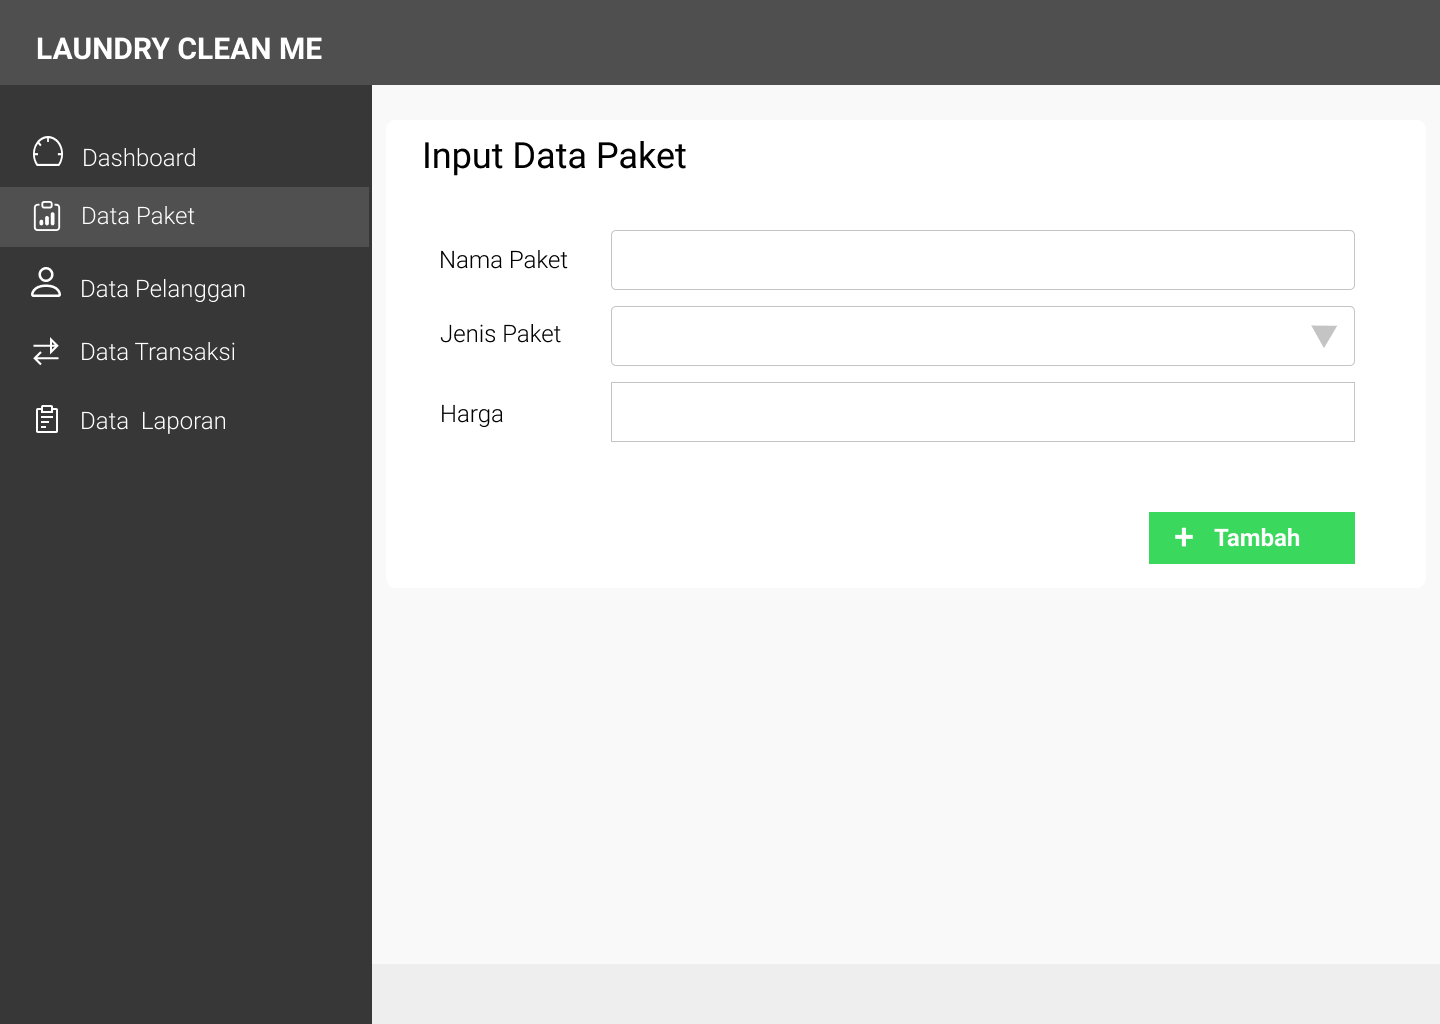
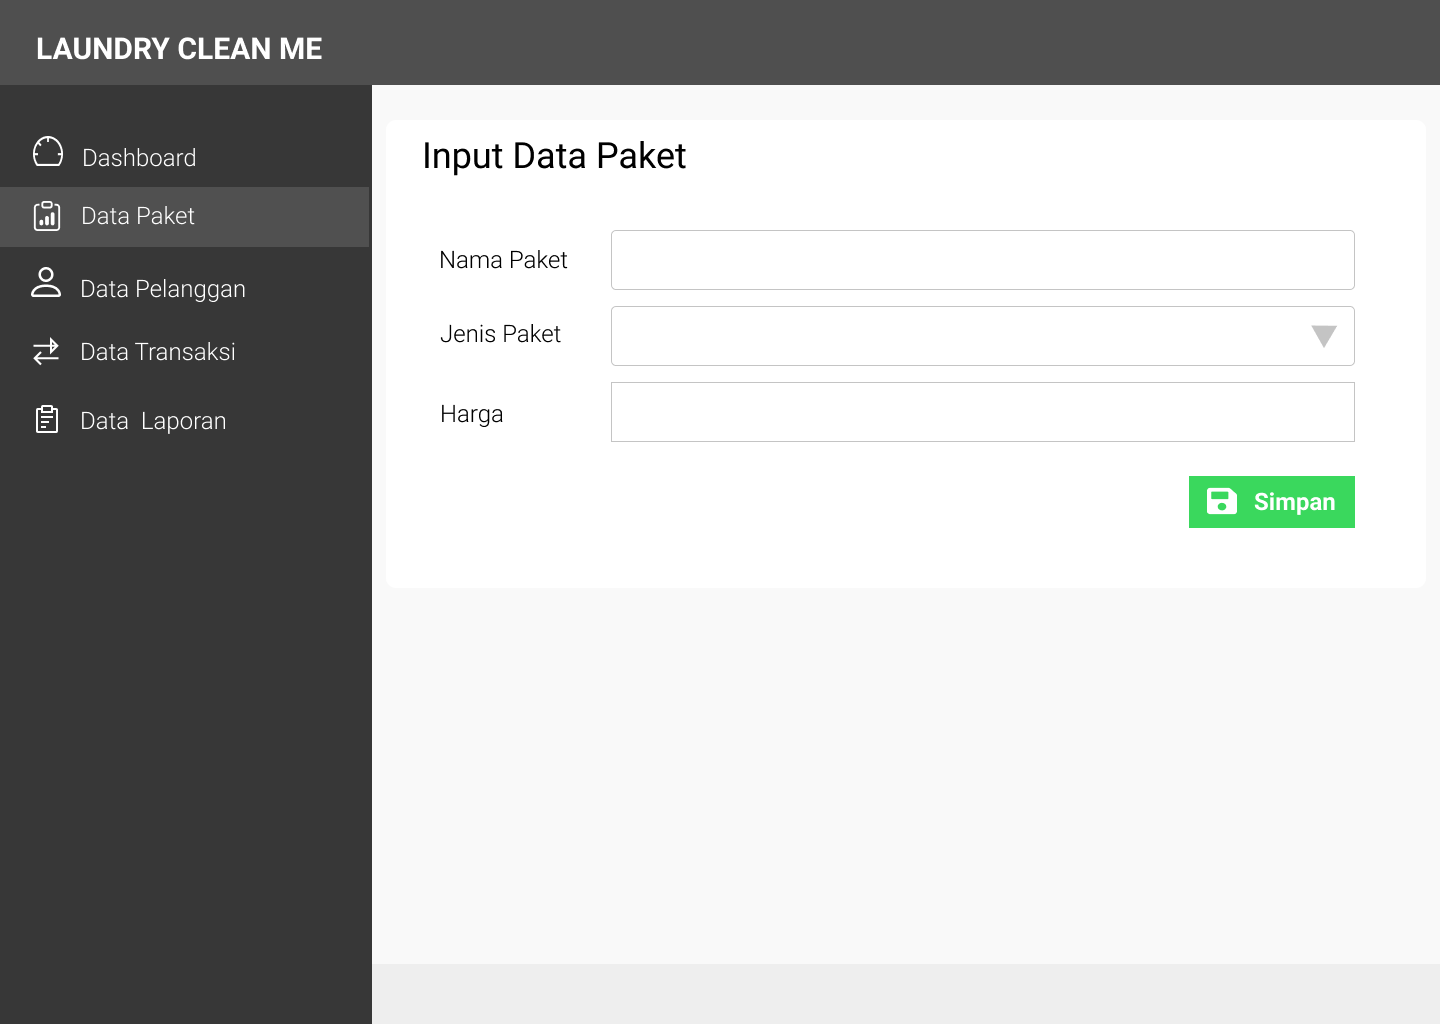
menambahkan gambar pada design aplikasi & perbaikan design

Changed region(s): [[0.7812, 0.4375, 0.9688, 0.5625]]

diff --git a/index.html b/index.html
@@ -61,7 +61,7 @@
 					
 					<p >6.	Pemeliharaan, langkah terakhir yaitu pemeliharaan. Tidak ada perangkat lunak yang 100% bebas dari bug, oleh karena itu sangatlah penting agar perangkat lunak dipelihara secara berkala.</p>
 					
-					<p><strong>2.2 Metode Laundry<br></p>
+					<p><strong>2.2 Laundry<br></p>
 					<p style="text-indent: 0.5in;"></strong>Menilik dari kata dasarnya, laundry adalah kata benda yang mengacu pada tindakan mencuci pakaian, tempat mencuci pakaian, atau pakaian yang telah dicuci. Kegiatan ini juga bisa dihubungkan pada kegiatan mencuci bahan tekstil atau tempat untuk mencuci bahan tekstil. Jadi kata laundry menghubungkan kegiatan mencuci dan tempat mencuci pada waktu dan lokasi yang bersamaan. Sedangkan usaha laundry adalah sebuah usaha di bidang jasa yang menawarkan cuci pakaian dan sejenisnya yang umum digunakan oleh konsumen.</p><br>
 					<p><strong>2.3 Kasir<br></p>
 					<p style="text-indent: 0.5in;"></strong>Kasir adalah orang yang bertugas untuk mengurusi dan menyimpan hasil pembayaran terutama uang, dan memasukkannya ke dalam mesin kasir. Kasir dapat ditemukan di berbagai tempat, terutama di tempat-tempat yang memiliki titik penjualan seperti di dalam toko. Kasir juga dapat merujuk pada orang yang menghimpun, menghitung, dan mengirimkan uang kepada nasabah di suatu kantor cabang sebuah bank. Istilah tersebut juga disebut sebagai teller bank. Tempat kasir menerima dan menyimpan uang hasil penjualan disebut kasa.</p><br>
@@ -90,9 +90,9 @@
 					<img src="assets/image/activity diagram.png" alt="diagram 1" width="600px" height="auto">
 					<p>b. Kelemahan<br></p>
 					<p style="text-indent: 0.5in;"> Laundry Clean Me setiap harinya dapat menerima pemesanan jasa layanan sebanyak lebih dari seratus pelanggan. Namun, pelayanan yang digunakan masih menggunakan pelayanan kasir dengan transaksi manual, dan admin masih mencatat data-data pelanggan di buku antrian dengan menulisaknnya secara manual sehingga menyulitkan admin dalam melayani pelanggan. Laporan pelanggan dan transaksi juga masih belum teratur dan masih banyak data yang kurang ataupun salah sehingga menyulitkan pemilik untuk memantau perkembangan usaha laundrynya.</p>
-					<br><p><strong>3.3 Aplikasi Kasir Berbasis Web</strong><br></p>
+					<br><p><strong>3.3 Aplikasi Kasir Berbasis Web</strong></p>
 					<p style="text-indent: 0.5in;">Maka untuk mengatasi masalah tersebut dibuatlah sebuah aplikasi kasir berbasis web yang dapat membantu admin untuk mencatat data pelanggan dan melakukan transaksi. Aplikasi pengelolaan layanan kasir adalah sebuah aplikasi yang digunakan untuk memudahkan seorang kasir pada sebuah layanan laundry dalam melakukan kegiatan transaksi dan pembuatan laporan pendapatan. Sehingga dengan adanya aplikasi ini dapat memudahkan proses pembuatan laporan pendapatan dengan cepat, tepat dan akurat, memberikan pelayanan yang profesional kepada pelanggan dan meminimalisir kesalahan-kesalahan yang mungkin terjadi.</p>
-					<img src="assets/image/activity diagram2.png" alt="diagram 2" width="600px" height="auto">
+					<img src="assets/image/activity diagram2.png" alt="diagram 2" width="600px" height="auto"><br>
 					<br><p><strong>3.4 Analisis Kebutuhan</strong><br></p>
 					<p>1. Analisis Kebutuhan Fungsional</p>
 					<p style="text-indent: 0.5in;">Aplikasi pengelolaan layanan kasir laundry adalah sebuah aplikasi yang digunakan untuk memudahkan seorang kasir pada sebuah layanan laundry dalam melakukan kegiatan transaksi dan pembuatan laporan pendapatan.  Karyawan dapat melakukan peroses transaksi dengan pelangan, menambahkan pelanggan kedalam daftar pemesanan jasa, dan mencatat barang yang ingin di laundry.<br><br>Proses kegiatan Admin</p>
@@ -126,7 +126,7 @@
 					<img src="assets/image/dad2T.png" alt="lvl 2 transaksi" width="600px" height="auto">
 					<p>• Entity Relationship Diagram (ERD)</p>
 					<p style="text-indent: 0.5in;">Entity Relationship Diagram (ERD) adalah diagram yang dapat mengambarkan relasi antar entitas yang digunakan dalam pembuatan sistem.</p>
-					<img src="assets/image/erd.png" alt="diagram ERD" width="600px" height="auto">
+					<img src="assets/image/ERD.png" alt="diagram ERD" width="600px" height="auto">
 					<br><p>2. Design Database</p>
 					<p>• Tabel Pelanggan</p>
 					<img src="assets/image/pelanggan.png" alt="tabel pelanggan" width="600px" height="auto" border="1 px solid Black">
@@ -145,22 +145,26 @@
 					<br><p>3. Design Aplikasi</p>
 					<p>• Tampilan Form Login</p>
 					<p style="text-indent: 0.5in;">Pada form login, admin akan memasukan Username dan Password yang telah terdaftar didalam database. Jika login berhasil maka admin dapat mengakses aplikasi untuk menjalankan fitur-fiturnya.</p>
-					<img src="assets/image/tampilan_login.png" alt="login" width="600px" height="auto" border="1 px solid Black">
+					<img src="assets/image/login.png" alt="login" width="600px" height="auto" border="1 px solid Black">
 					<p>• Tampilan Dashboard</p>
 					<p style="text-indent: 0.5in;">Pada halaman dasboard akan ditampilkan data admin.</p>
-					<img src="assets/image/tampilan_dashboard.png" alt="dashboard" width="600px" height="auto" border="1 px solid Black">
-					<p>• Tampilan Form Antrian</p>
-					<p style="text-indent: 0.5in;">Pada form antrian Admin dapat menginputkan data pelanggan yang berisi nama pelanggan, alamat, telepon, status, tanggal, berat barang yang ingin di laundry dan total. Untuk menyimpan data tersebut admin dapat mengklik tombol tambah dibagian bawah form.</p>
-					<img src="assets/image/tampilan_antrian.png" alt="antrian" width="600px" height="auto" border="1 px solid Black">
+					<img src="assets/image/dash.png" alt="dashboard" width="600px" height="auto" border="1 px solid Black">
+					<p>• Tampilan Data Paket</p>
+					<p style="text-indent: 0.5in;">Pada tampilan data paket akan ditampilkan tabel data paket layanan laundry yang tersedia. Tabel akan berisi nama paket, jenis paket dan harga paket layanan. Untuk emnambahkan paket baru, pada bagian atas tabel terdapat tombol Tambahkan Data yang jika di klik akan menampilkan form untuk menambahkan paket layanan baru. Dan jika ingin mengubah/menghapus data salah satu paket, pada bagian action akan disediakan tombol untuk edit dan untuk menghapus</p>
+					<img src="assets/image/dsPaket.png" alt="pelanggan" width="600px" height="auto" border="1 px solid Black">
+					<p>Berikut adalah tampilan form untuk menambahkan dan mengedit paket layanan laundry</p>
+					<img src="assets/image/inPaket.png" alt="pelanggan" width="600px" height="auto" border="1 px solid Black">
 					<p>• Tampilan Data Pelanggan</p>
 					<p style="text-indent: 0.5in;">Pada halaman data pelanggan akan ditampilkan tabel data pelanggan yang berisi kolom nama, alamat, telp</p>
-					<img src="assets/image/tampilan_datapelanggan.png" alt="pelanggan" width="600px" height="auto" border="1 px solid Black">
+					<img src="assets/image/dsPel-lama.png" alt="pelanggan" width="600px" height="auto" border="1 px solid Black">
+					<p>Data pelanggan akan diinputkan melalui form data pelanggan</p>
+					<img src="assets/image/inPel.png" alt="pelanggan" width="600px" height="auto" border="1 px solid Black">
 					<p>• Tampilan Transaksi</p>
 					<p style="text-indent: 0.5in;">pada halaman transaksi akan ditampilkan tabel transaksi yang berisi nama pelanggan, status, tanggal, berat, dan total.</p>
-					<img src="assets/image/tampilan_transaksi.png" alt="transaksi" width="600px" height="auto" border="1 px solid Black">
+					<img src="assets/image/Detail - Transaksi.png" alt="transaksi" width="600px" height="auto" border="1 px solid Black">
 					<p>• Tampilan Data Laporan</p>
 					<p style="text-indent: 0.5in;">Pada halaman laporan akan ditampilkan laporan pemesanan.</p>
-					<img src="assets/image/tampilan_datalaporan.png" alt="laporan" width="600px" height="auto" border="1 px solid Black">
+					<img src="assets/image/dsLap.png" alt="laporan" width="600px" height="auto" border="1 px solid Black">
 					<p ><strong>4. Feedback (Masukan) dari Client</strong><br></p>
 					<p style="text-indent: 0.5in;"> Setelah menerima design yang diajukan, client (Laundry Clean Me) memberikan tanggapan dan beberapa masukan yang mengindikasikan bahwa ada bagian dari design aplikasi yang belum memenuhi standar kinginan client. Berikut adalah masukan yang didapatkan.<br></p>
 					<p style="text-indent: 0.5in;">•	Client menginginkan adanya design untuk tampilan form registrasi</p>
@@ -169,13 +173,13 @@
 					<p style="text-indent: 0.5in;">•	pelanggan menginginkan untuk ditambahkan tampilan jika konfirmasi pembayaran berhasil dilakukan </p>
 					<p ><strong>5. Perbaikan design </strong><br></p>
 					<p style="text-indent: 0.5in;">•	design untuk tampilan form registrasi</p>
-					<img src="assets/image/tampilan_formregistrasi.png" alt="formregistrasi" width="600px" height="auto" border="1 px solid Black">
+					<img src="assets/image/register.png" alt="formregistrasi" width="600px" height="auto" border="1 px solid Black">
 					<p style="text-indent: 0.5in;">•	quick access untuk menuju data paket, data pelanggan, data transaksi dan laporan pada halaman dash board</p>
-					<img src="assets/image/tampilan_halamandashboard.png" alt="halamandashboard" width="600px" height="auto" border="1 px solid Black">
+					<img src="assets/image/dash.png" alt="halamandashboard" width="600px" height="auto" border="1 px solid Black">
 					<p style="text-indent: 0.5in;">•	tombol untuk menuju form input data pelanggan di halaman data </p>
-					<img src="assets/image/tampilan_halamandatapelanggan.png" alt="halamandatapelanggan" width="600px" height="auto" border="1 px solid Black">
+					<img src="assets/image/inPel.png" alt="halamandatapelanggan" width="600px" height="auto" border="1 px solid Black">
 					<p style="text-indent: 0.5in;">•	tampilan jika konfirmasi pembayaran berhasil dilakukan  </p>
-					<img src="assets/image/tampilan_halamandatatransaksi.png" alt="halamandatatransaksi" width="600px" height="auto" border="1 px solid Black">
+					<img src="assets/image/berhasil.png" alt="halamandatatransaksi" width="600px" height="auto" border="1 px solid Black">
 				</ul>
 			</td>
 		</tr>
